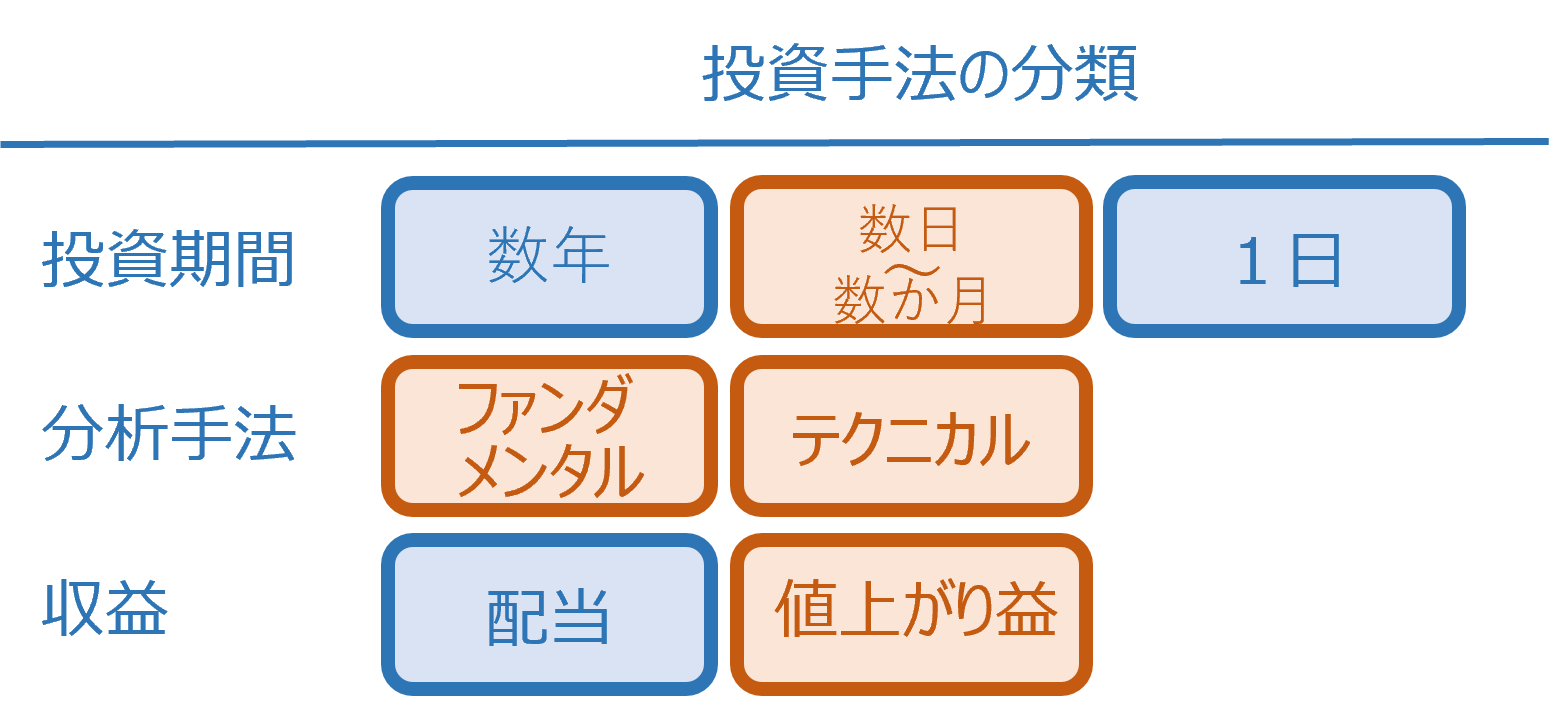
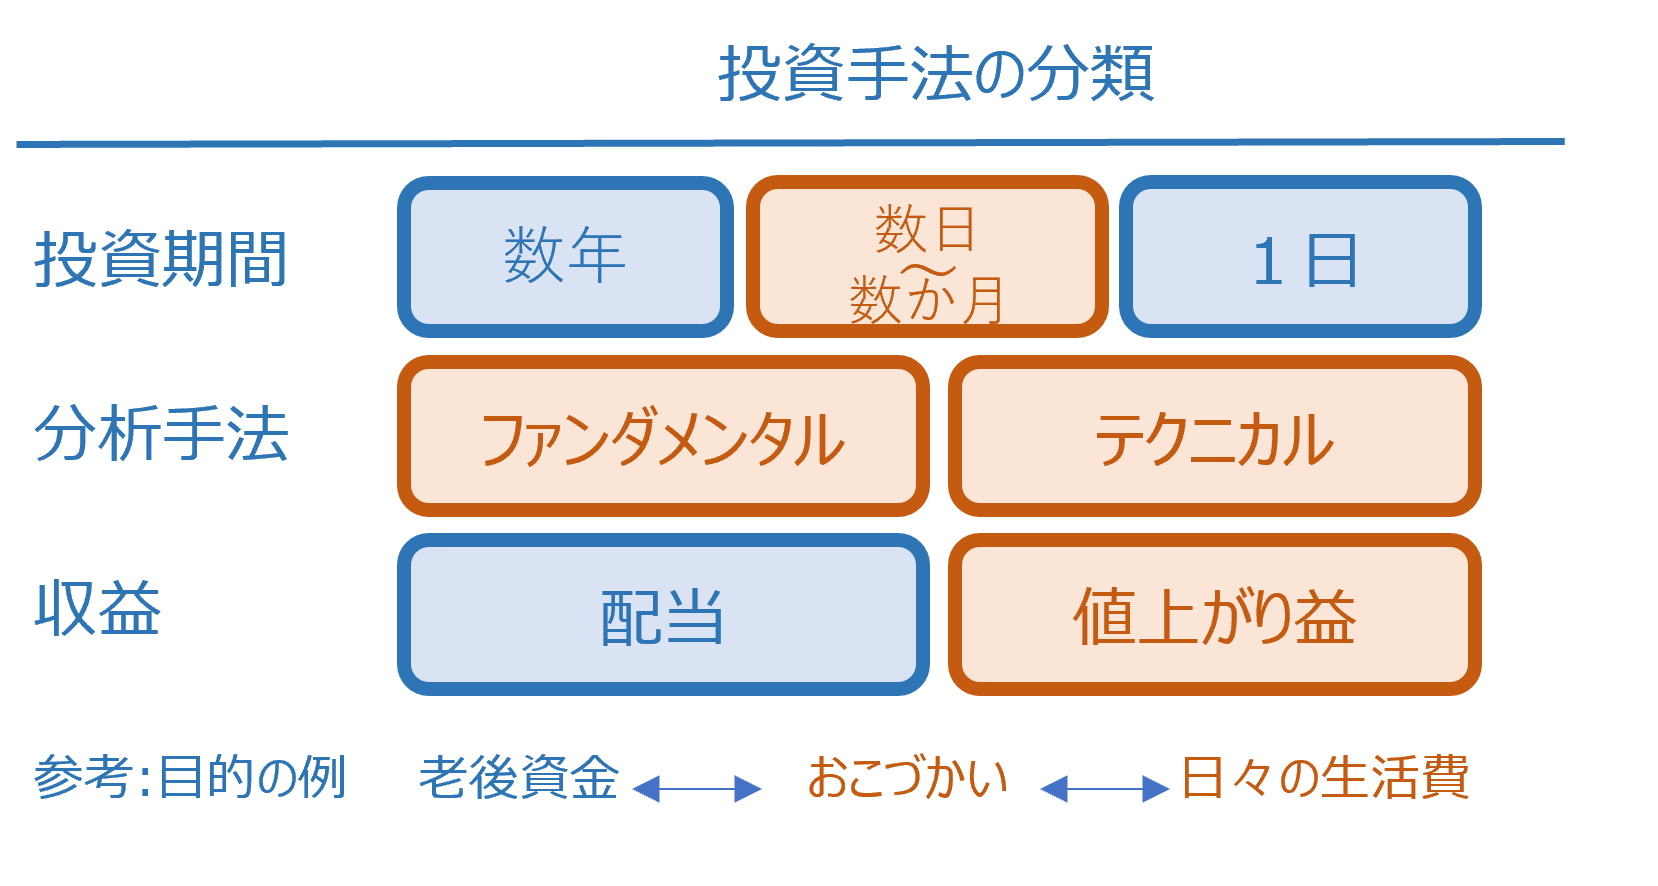
20250515公開予定分_「C自分に合った投資手法を確立する」を更新

diff --git a/articles/20250515_idea_investor.md b/articles/20250515_idea_investor.md
@@ -173,7 +173,7 @@ published_at: 2025-05-14 18:00
 #### C.自分に合った投資手法を確立する
 ![](/images/20250515_idea_investor/stock2.png =500x)
 
-色々なやり方を試しながら、自分に合う投資手法を見極めていきました。上記の通り、**「投資期間」「分析手法」「収益」の観点で色々な投資手法を試すのがおすすめ**です。
+投資の目的を設定した上で、上図の通り、**「投資期間」「分析手法」「収益」の観点で色々な投資手法を試して**、自分に合う投資手法を見極めていくのがおすすめです。
 私には特に赤枠の手法が合っているように感じました。なお、両方の分析手法を赤枠にしているのは、テクニカル分析をメインとしつつ、ファンダメンタル分析で「どれくらい勝率がありそうか」や「おおまかな全体的な方向感」を確認の上、投資判断をするからです。
 
 
